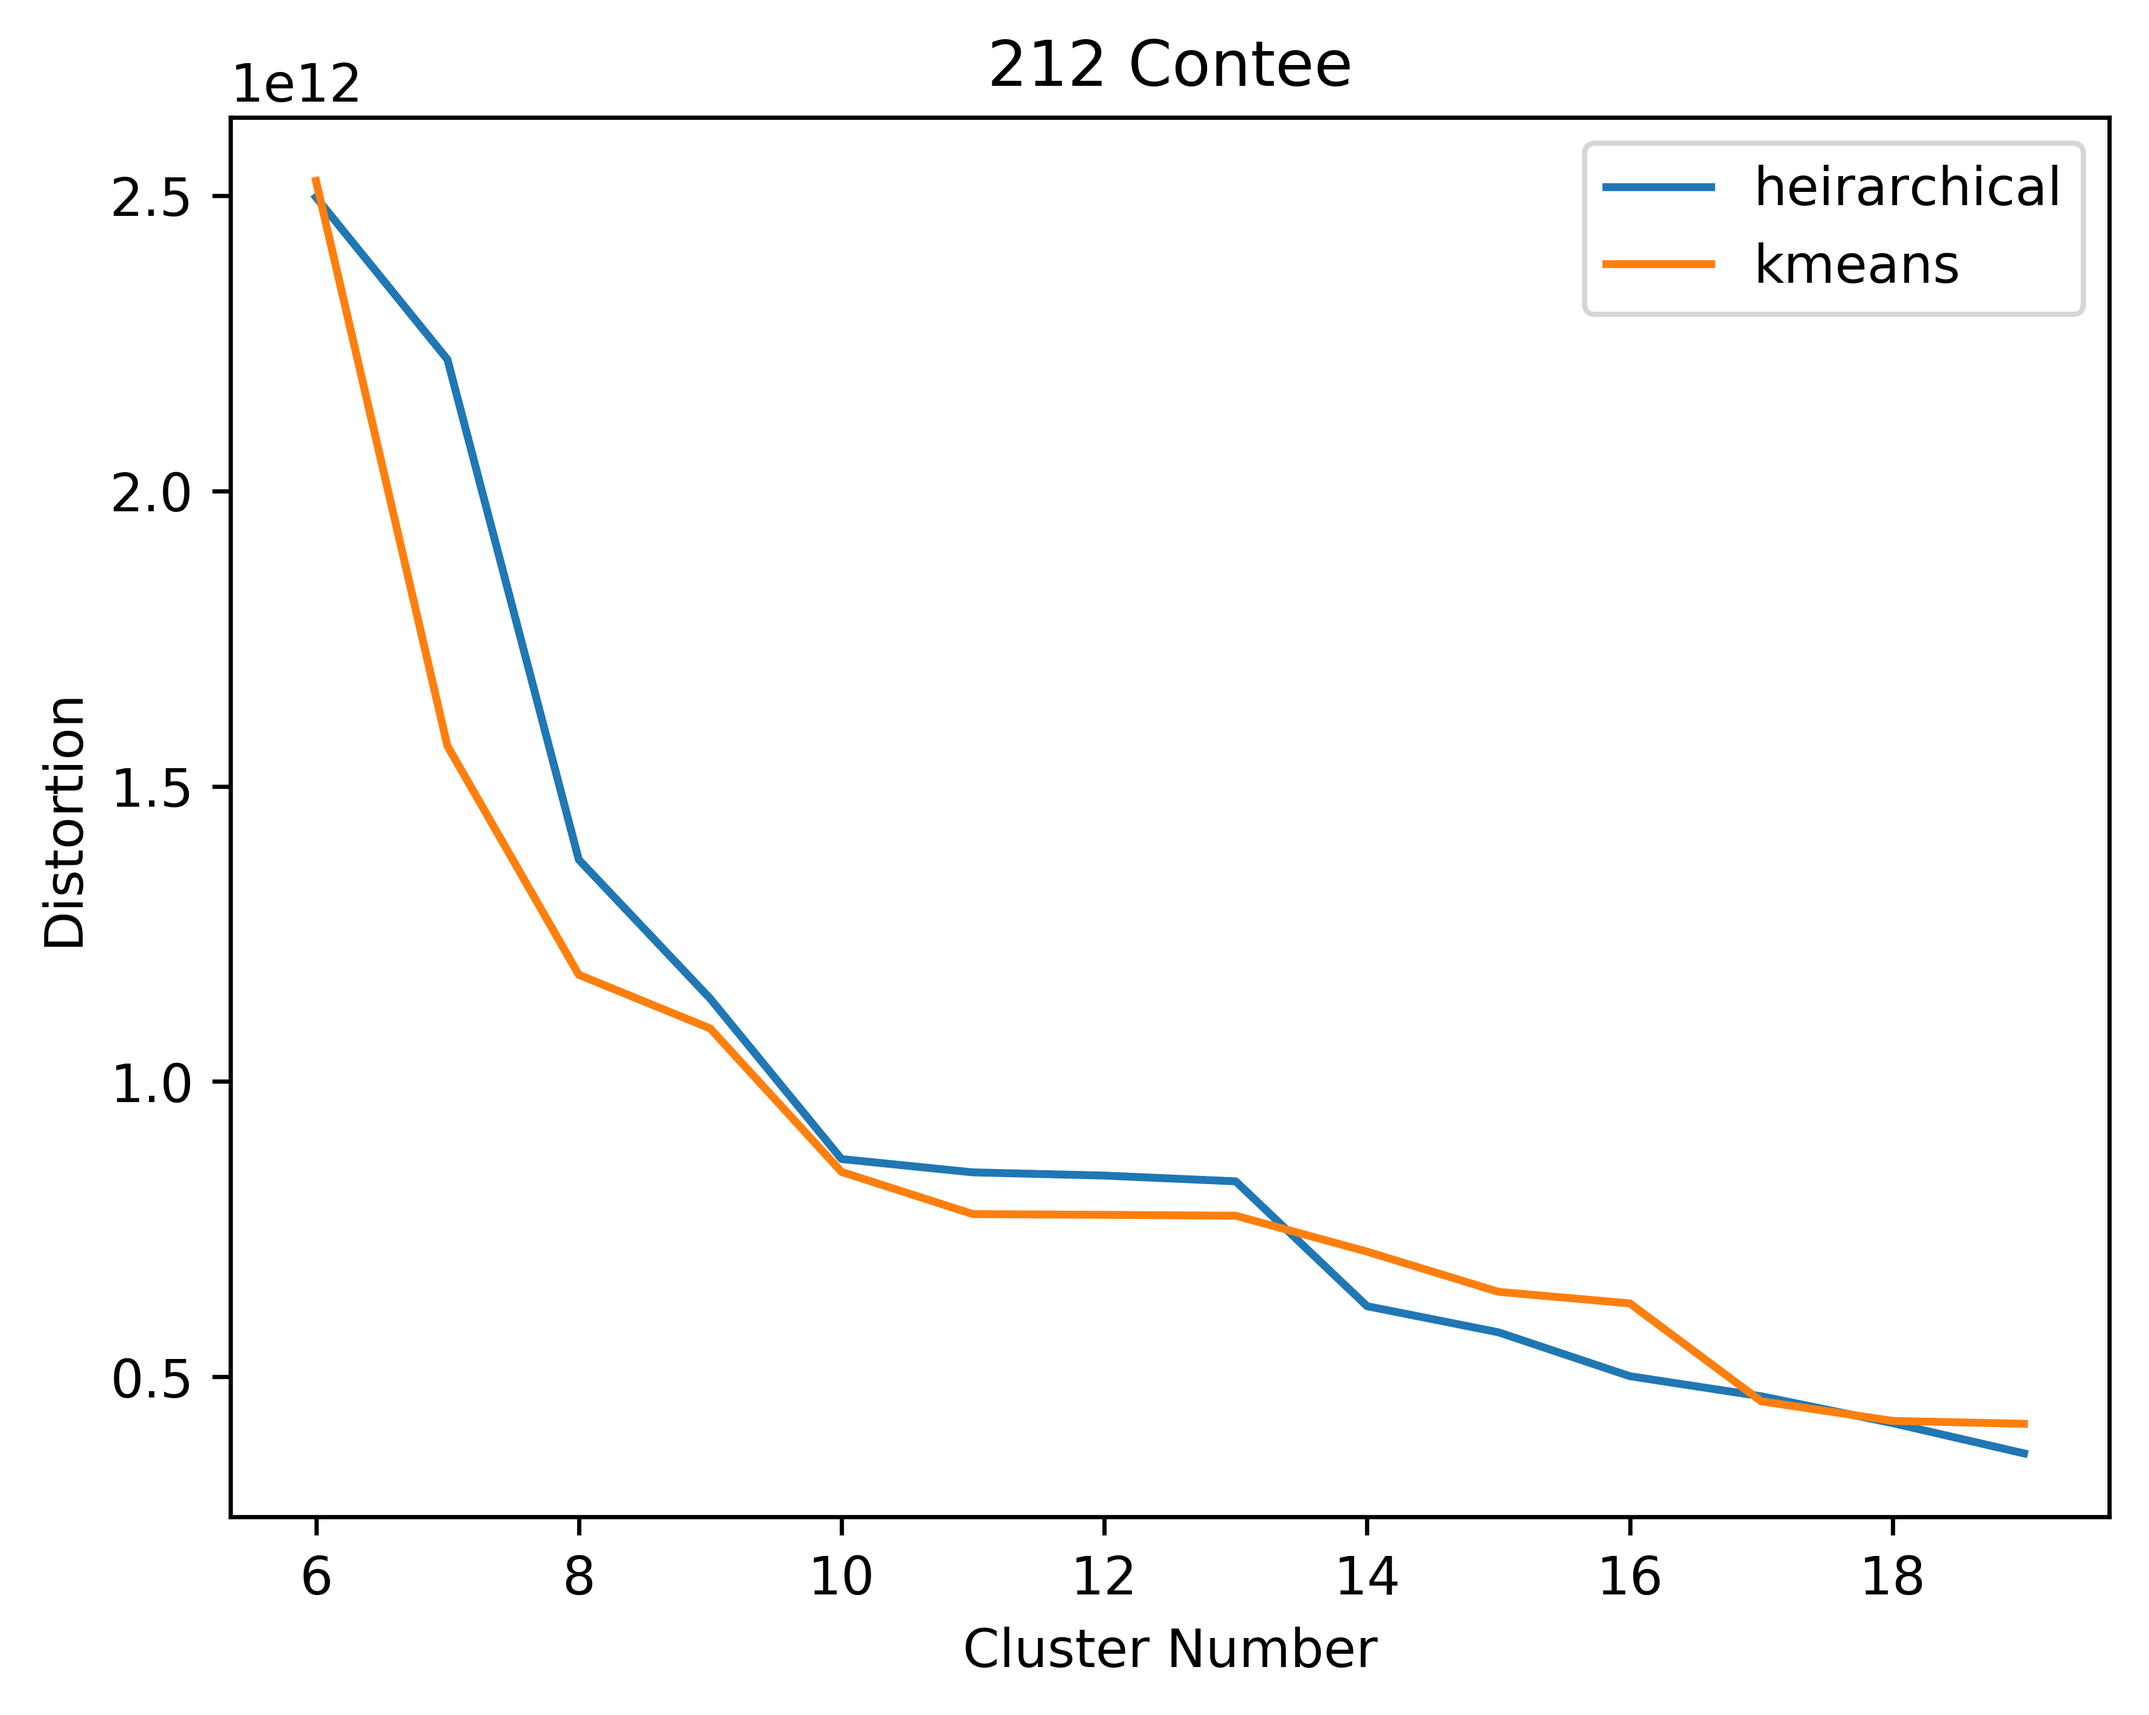
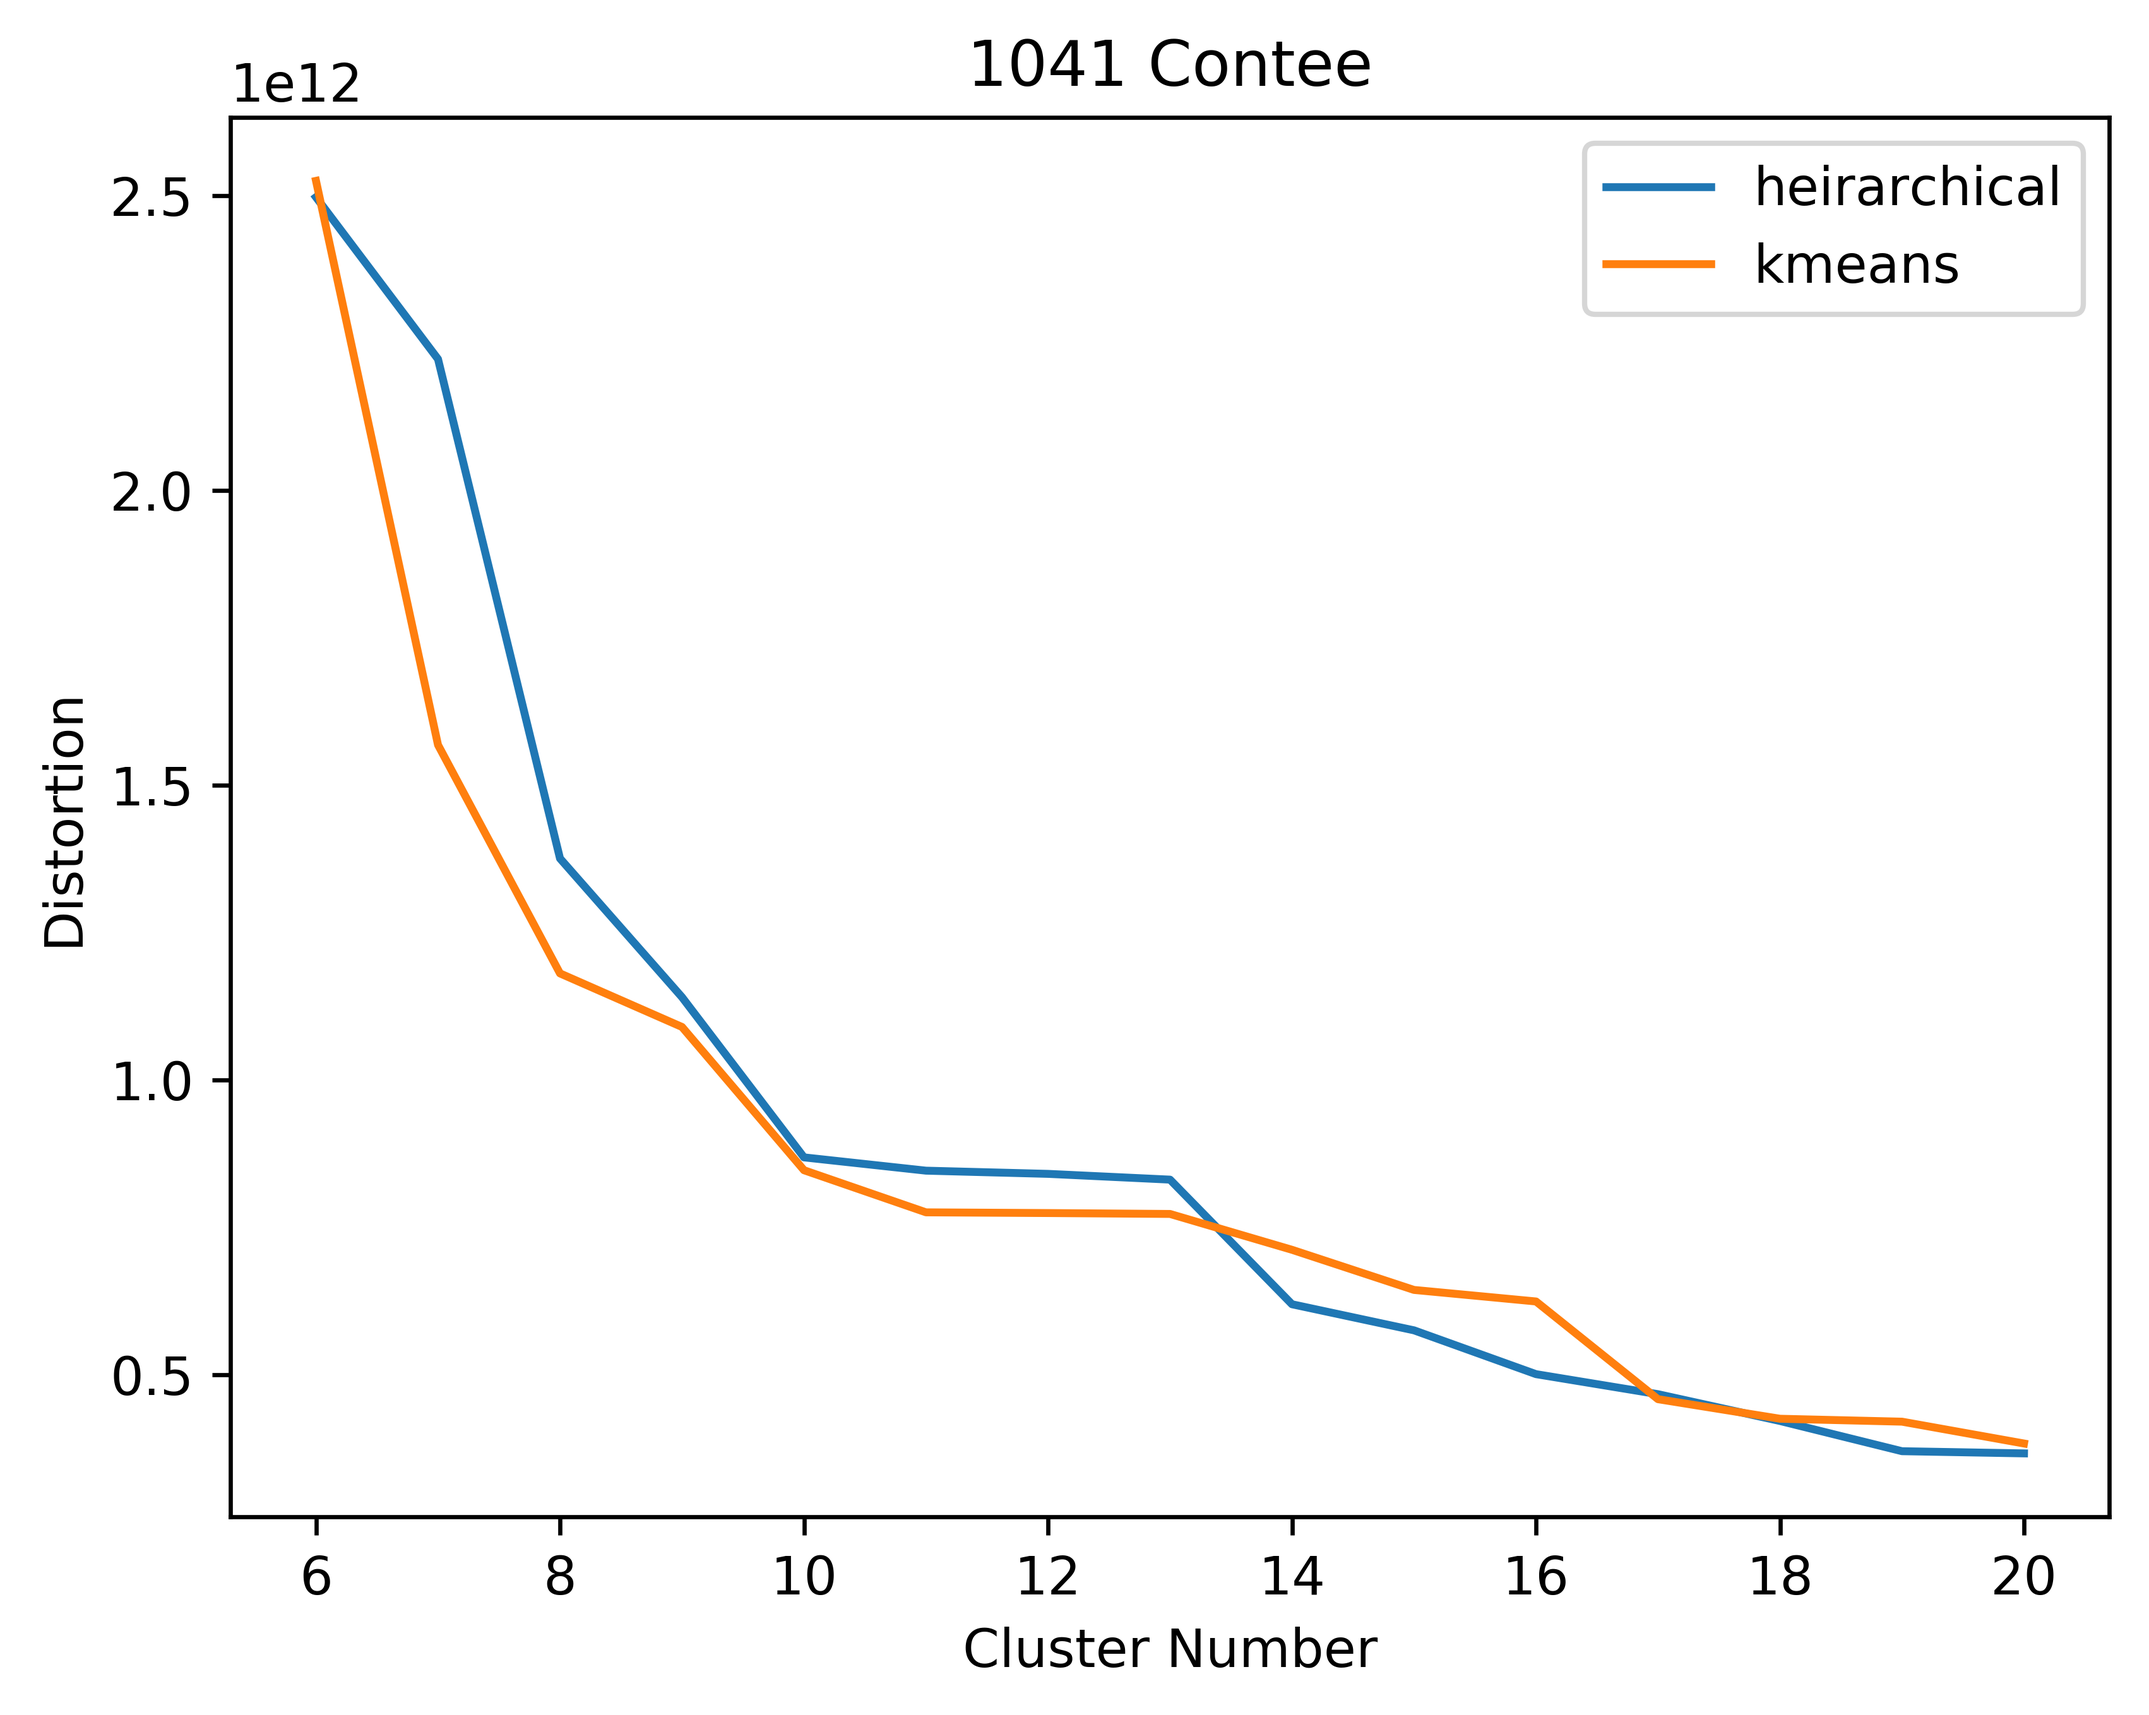
piccolo fix

diff --git a/Lab4/Script/main.py b/Lab4/Script/main.py
@@ -69,21 +69,21 @@ print("Distorsione clustering kmeans:", '%.5e' % distortion(clustozzo))
 
 kmeansDist = []
 hDist = []
-"""
-for clusters in range(6, 20):
+
+for clusters in range(6, 21):
     kmeansDist.append(distortion(kmeans(dataset_212, clusters, 5)))
     hDist.append(distortion(h_clustering(dataset_212, clusters)))
-distortionPlot(hDist, kmeansDist, "Distorsione212")
-"""
+distortionPlot(hDist, kmeansDist, "Distorsione212", "212 Contee")
 
-"""for clusters in range(6, 20):
+
+"""for clusters in range(6, 21):
     kmeansDist.append(distortion(kmeans(dataset_526, clusters, 5)))
     hDist.append(distortion(h_clustering(dataset_526, clusters)))
-distortionPlot(hDist, kmeansDist, "Distorsione526")"""
+distortionPlot(hDist, kmeansDist, "Distorsione526", "526 Contee")"""
 
-for clusters in range(6, 20):
+"""for clusters in range(6, 21):
     kmeansDist.append(distortion(kmeans(dataset_1041, clusters, 5)))
     hDist.append(distortion(h_clustering(dataset_1041, clusters)))
-distortionPlot(hDist, kmeansDist, "Distorsione1041")
+distortionPlot(hDist, kmeansDist, "Distorsione1041", "1041 Contee")"""
 
 

diff --git a/Lab4/Script/ScatterPlotCluster.py b/Lab4/Script/ScatterPlotCluster.py
@@ -43,12 +43,12 @@ def scatter_plot_cluster(clusters, P, nome):
 
 
 
-def distortionPlot(heirarchical, kmeans, nome):
-    dataset = [x for x in range(6, 20)]
+def distortionPlot(heirarchical, kmeans, nome, titolo):
+    dataset = [x for x in range(6, 21)]
     plt.plot(dataset, heirarchical, label='heirarchical')
     plt.plot(dataset, kmeans, label='kmeans')
     plt.xlabel('Cluster Number')
     plt.ylabel('Distortion')
-    plt.title("212 Contee")
+    plt.title(titolo)
     plt.legend()
     plt.savefig("../File vari/" + nome, dpi=600, bbox_inches='tight')
